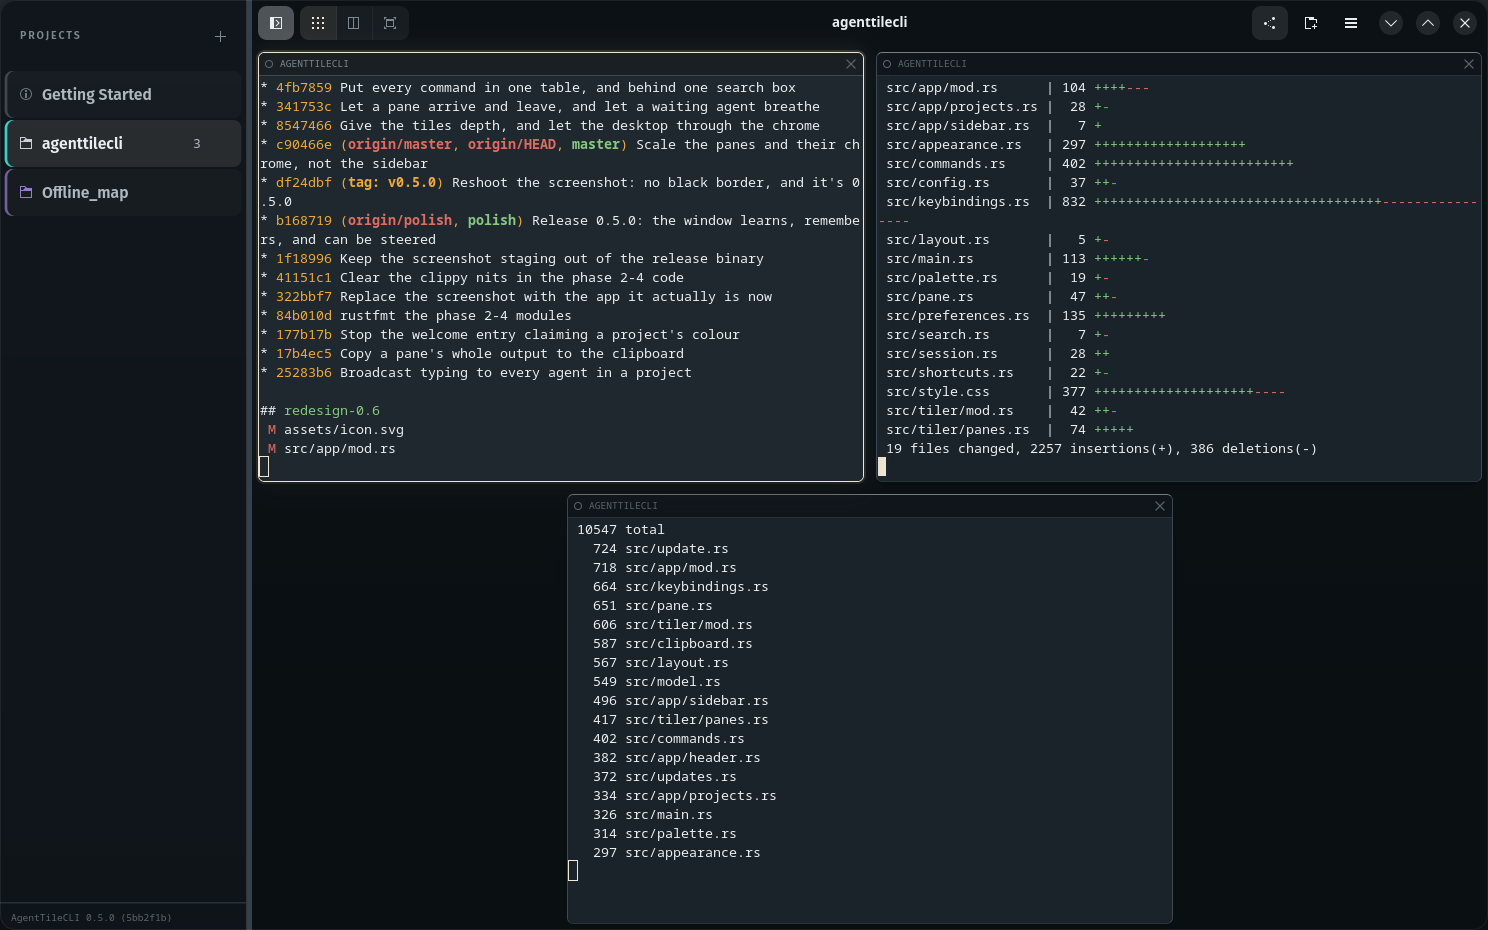
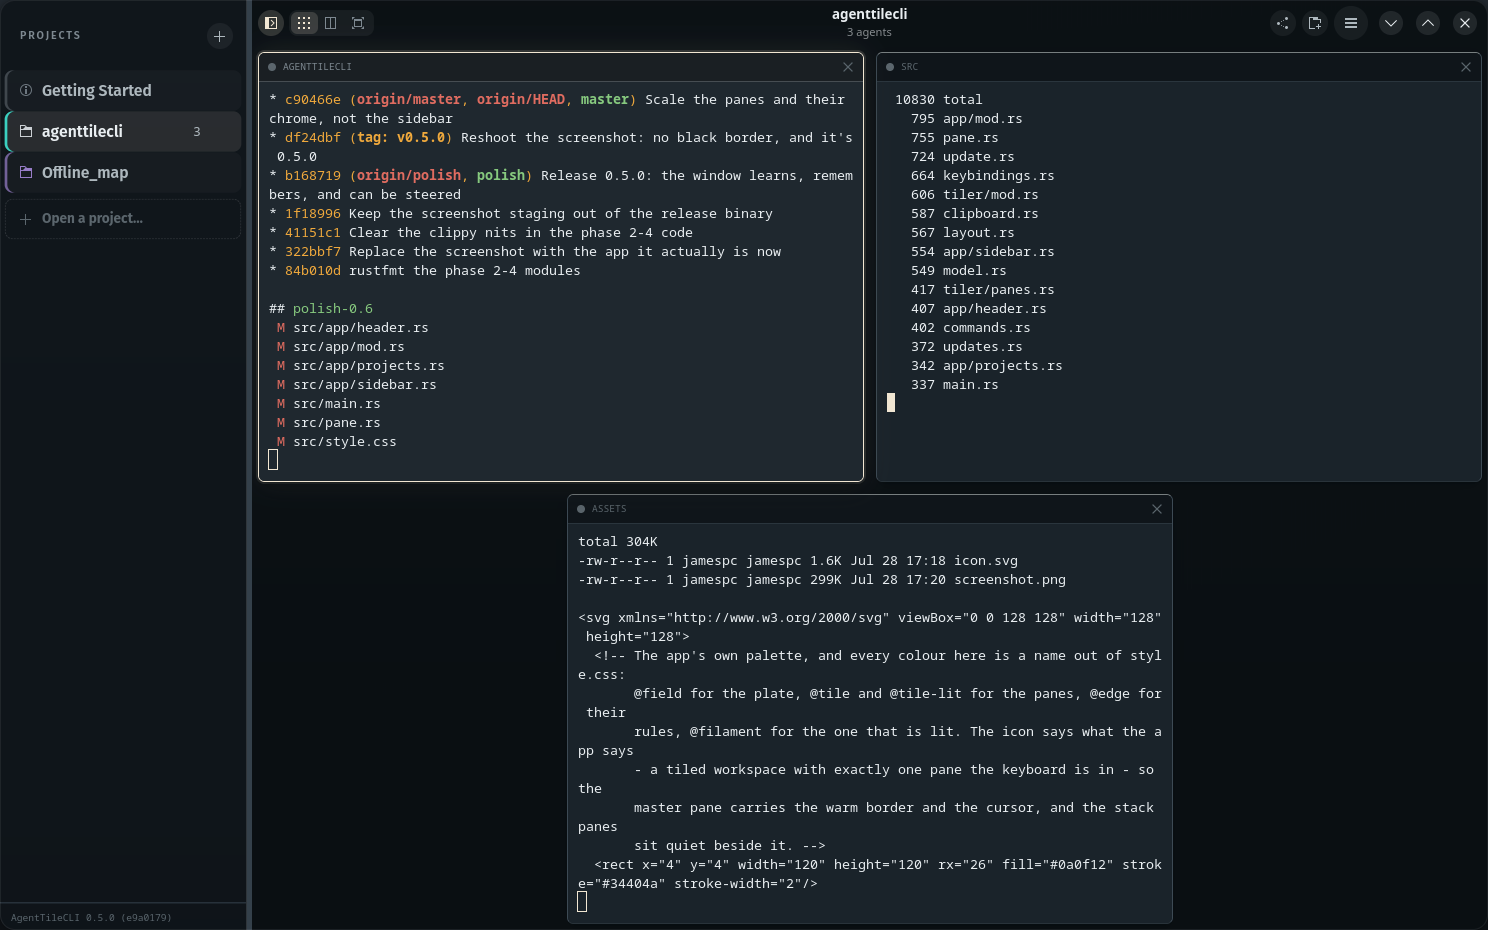
Finish the polish: the empty screen, the last button, the dot, the subtitle
Six things, three of which were unfinished rather than optional.

The empty state's primary button was `.suggested-action`, which paints from
`accent_bg_color` - aliased in this app to @filament. So the first screen
anyone sees led with a solid warm pill that was the brightest thing in the
window, wearing the one colour the stylesheet reserves for "the keyboard is
here". Two buttons alone on a blank page have no competition to win: the
primary now takes the same wash the lit sidebar strip and the checked
toggles use, and the secondary is an outline. It also gains the one line
worth adding to a page with nothing on it - where the command palette is.

The button unification only got half done. The content header's controls
were given one shape and the rack's "+" was left on `flat circular`, which
didn't remove the second button language, it moved the seam from inside one
header to between two. Its old rules go with it; they were dead for most of
their life anyway, since nothing wore `.sidebar-header` until recently.

The status dot had the bug that was just fixed for the label beside it.
`starting` means "not yet heard from" and is drawn hollow so that nothing-
known doesn't read as a state - right for an agent in the second before its
first hook, wrong forever for a pane with no hooks to arrive. Those now get
the plain dot that means "a thing that is simply there".

The header's subtitle was empty whenever no agent had a title to show. It
[…]

diff --git a/src/style.css b/src/style.css
@@ -534,6 +534,58 @@ window {
   color: @muted;
 }
 
+/* ── The empty state ───────────────────────────────────────────────────────
+   The first screen of the app, and the only one with nothing on it to read.
+
+   Its primary button used to be `.suggested-action`, which paints from
+   `accent_bg_color` - aliased here to @filament - so it arrived as a solid warm
+   pill and became the brightest thing in the window, wearing the one colour
+   this palette reserves for "the keyboard is here". Two buttons alone on a
+   blank page have no competition to win, so the primary takes the same wash
+   the sidebar's lit strip and the checked toggles use, and the secondary is an
+   outline. The hierarchy is still obvious and neither of them is a lamp. */
+.empty-primary {
+  color: @filament;
+  background-color: alpha(@filament, 0.16);
+  background-image: none;
+  border: 1px solid alpha(@filament, 0.22);
+  box-shadow: none;
+  transition: background-color 140ms cubic-bezier(0.2, 0, 0, 1),
+    border-color 140ms cubic-bezier(0.2, 0, 0, 1);
+}
+
+.empty-primary:hover {
+  background-color: alpha(@filament, 0.24);
+  border-color: alpha(@filament, 0.34);
+}
+
+.empty-secondary {
+  color: @dim;
+  background-color: transparent;
+  background-image: none;
+  border: 1px solid alpha(@text, 0.14);
+  box-shadow: none;
+  transition: color 140ms cubic-bezier(0.2, 0, 0, 1),
+    background-color 140ms cubic-bezier(0.2, 0, 0, 1),
+    border-color 140ms cubic-bezier(0.2, 0, 0, 1);
+}
+
+.empty-secondary:hover {
+  color: @text;
+  background-color: alpha(@text, 0.06);
+  border-color: alpha(@text, 0.22);
+}
+
+/* Quieter than the description above it and set in the engraved monospace the
+   rest of the app's footnotes use, so it reads as a note rather than a third
+   button. */
+.empty-hint {
+  margin-top: 0.6em;
+  font-family: monospace;
+  font-size: 0.8em;
+  color: @faint;
+}
+
 /* ── The find bar ──────────────────────────────────────────────────────────
    Level 4, and until now level nothing: `.search-row` has been applied to the
    box since the day the find bar landed and has never had a single rule to its
@@ -701,22 +753,10 @@ searchbar > revealer > box {
   text-transform: uppercase;
 }
 
-.sidebar-header button {
-  min-width: 1.8em;
-  min-height: 1.8em;
-  border-radius: 0.3em;
-  color: @muted;
-  transition: color 140ms cubic-bezier(0.2, 0, 0, 1),
-    background-color 140ms cubic-bezier(0.2, 0, 0, 1);
-}
-
-/* A wash rather than a solid fill. At this size a filled square is the
-   brightest thing in the rack, which is a strange amount of noise for "add a
-   project" to make while the pointer merely passes over it. */
-.sidebar-header button:hover {
-  color: @filament;
-  background-color: alpha(@filament, 0.12);
-}
+/* The "+" here wears `.header-action`, like every other button in either
+   header bar - so it has no rules of its own any more. It used to have a pair,
+   which had never applied to anything: nothing wore `.sidebar-header` until
+   that was fixed, and by then the button had been unified. */
 
 .sidebar-list {
   background-color: transparent;
@@ -736,8 +776,13 @@ searchbar > revealer > box {
    generously rounded, and nothing else drawn at all. That is also the honest
    hierarchy - a rack is a list of places you might go, and the only fact worth
    drawing is which one you're in. */
+/* Down from 1.05em of vertical padding, which made three projects fill a third
+   of a column with room for fifteen. A rack is an index, and an index wants to
+   be scanned - rows tall enough to be buttons put fewer of them on screen and
+   made the empty space below them the loudest thing in the panel. Still roomy
+   enough to carry a rail and a tally without crowding either. */
 row.sidebar-row {
-  padding: 1.05em 0.7em 1.05em 1em;
+  padding: 0.8em 0.7em 0.8em 1em;
   margin: 0.13em 0;
   border-radius: 0.6em;
   /* A whisper of surface, and it is the rail that needs it. The rail is an
@@ -827,7 +872,7 @@ row.sidebar-row:selected:hover {
    lit strip do the talking. */
 .sidebar-add {
   margin: 0.3em 0.4em 0.15em;
-  padding: 0.72em 0.7em 0.72em 0.92em;
+  padding: 0.55em 0.7em 0.55em 0.92em;
   border: 1px dashed alpha(@text, 0.13);
   border-radius: 0.6em;
   background-color: transparent;

diff --git a/src/app/mod.rs b/src/app/mod.rs
@@ -161,6 +161,11 @@ struct Inner {
     toasts: adw::ToastOverlay,
     updates: Updates,
     title: adw::WindowTitle,
+    /// The focused agent's own terminal title, kept because the subtitle it
+    /// competes for is rewritten by two different events - a title change and
+    /// a change in how many agents are running - and whichever fires second
+    /// has to know what the other one had to say.
+    pane_title: RefCell<String>,
     /// The three layout-mode toggles, in `MODE_BUTTONS` order.
     mode_buttons: RefCell<Vec<gtk4::ToggleButton>>,
     /// True while the mode toggles are being repainted *from* the tiler, so the
@@ -293,6 +298,7 @@ impl App {
             toasts,
             updates: updates.clone(),
             title: title_widget.clone(),
+            pane_title: RefCell::new(String::new()),
             mode_buttons: RefCell::new(Vec::new()),
             syncing_mode: Cell::new(false),
             broadcast_button: RefCell::new(None),
@@ -610,6 +616,55 @@ impl App {
     /// Opens the command palette.
     pub fn show_command_palette(&self) {
         crate::commands::present(self);
+    }
+
+    /// Rewrites the header's subtitle.
+    ///
+    /// Two things want that line and only one can have it, so they take turns
+    /// by usefulness. The focused agent's own terminal title is the better
+    /// answer whenever there is one - it is live, it is specific, and it says
+    /// what that agent is doing right now. When there isn't one (no panes, or a
+    /// pane running something that never sets a title) the line would otherwise
+    /// be blank, and a blank line under a project name is a header bar with
+    /// nothing to say in the one place positioned to say it.
+    ///
+    /// So the fallback is the tally: how many agents this project is running
+    /// and whether any of them is waiting on you. That fact is otherwise only
+    /// in the sidebar, which is shut most of the time - which is exactly when
+    /// you would want to know it.
+    pub(super) fn refresh_subtitle(&self) {
+        let pane_title = self.0.pane_title.borrow().clone();
+        if !pane_title.is_empty() {
+            self.0.title.set_subtitle(&pane_title);
+            return;
+        }
+        self.0.title.set_subtitle(&self.agent_summary());
+    }
+
+    /// "3 agents \u{b7} 1 waiting for you", or as much of it as is true.
+    fn agent_summary(&self) -> String {
+        let Some(tiler) = self.active_tiler() else {
+            return String::new();
+        };
+        let tally = tiler.agent_tally();
+        let total = tally.total();
+        if total == 0 {
+            return "no agents running".to_string();
+        }
+        let agents = if total == 1 {
+            "1 agent".to_string()
+        } else {
+            format!("{total} agents")
+        };
+        // Only the claim on your attention is worth the second clause. "2
+        // working" is a thing you can see by looking at the panes; "1 waiting
+        // for you" is the thing you cannot, because a stopped agent looks
+        // exactly like a finished one.
+        if tally.waiting > 0 {
+            format!("{agents} \u{b7} {} waiting for you", tally.waiting)
+        } else {
+            agents
+        }
     }
 
     /// Opens the preferences dialog.

diff --git a/src/app/header.rs b/src/app/header.rs
@@ -294,10 +294,16 @@ impl App {
     /// yet done the one thing that makes any of them matter. The full list is
     /// still a keystroke away, in the menu and on `Super+Alt+/`.
     pub(super) fn build_empty_state(&self) -> adw::StatusPage {
+        // Not `suggested-action`. That class paints from `accent_bg_color`,
+        // which this app aliases to @filament - so the stock treatment made
+        // this button a solid warm pill and the brightest thing in the window,
+        // in the one colour the stylesheet reserves for "the keyboard is here".
+        // A primary action on an empty screen has no competition and needs
+        // none: it is one of two things on an otherwise blank page.
         let start = gtk4::Button::builder()
             .label("Open a project\u{2026}")
             .halign(gtk4::Align::Center)
-            .css_classes(["pill", "suggested-action"])
+            .css_classes(["pill", "empty-primary"])
             .build();
         let this = self.clone();
         start.connect_clicked(move |_| this.new_project());
@@ -305,7 +311,7 @@ impl App {
         let agent = gtk4::Button::builder()
             .label("Start an agent here")
             .halign(gtk4::Align::Center)
-            .css_classes(["pill"])
+            .css_classes(["pill", "empty-secondary"])
             .tooltip_text("Run claude in this project's own folder")
             .build();
         let this = self.clone();
@@ -315,6 +321,16 @@ impl App {
             }
         });
 
+        // The one line worth adding to an empty screen: where everything else
+        // is. This is the only page in the app with nothing on it to read, so
+        // it is the only place a pointer to the command palette costs nothing
+        // and is certain to be seen.
+        let hint = gtk4::Label::builder()
+            .label("Press Super+Alt+P for everything else")
+            .halign(gtk4::Align::Center)
+            .css_classes(["empty-hint"])
+            .build();
+
         let buttons = gtk4::Box::builder()
             .orientation(gtk4::Orientation::Vertical)
             .spacing(10)
@@ -322,6 +338,7 @@ impl App {
             .build();
         buttons.append(&start);
         buttons.append(&agent);
+        buttons.append(&hint);
 
         adw::StatusPage::builder()
             .icon_name("tab-new-symbolic")

diff --git a/src/app/sidebar.rs b/src/app/sidebar.rs
@@ -78,7 +78,12 @@ impl App {
             .build();
         let new_project = gtk4::Button::builder()
             .icon_name("list-add-symbolic")
-            .css_classes(["flat", "circular"])
+            // The same shape the content header's buttons take. Unifying that
+            // bar and leaving this one on `flat circular` didn't remove the
+            // second button language, it just moved the seam from inside one
+            // header to between two.
+            .css_classes(["header-action"])
+            .valign(gtk4::Align::Center)
             .can_focus(false)
             .tooltip_text("Open a new project as a new group (Super+Alt+Return)")
             .build();
@@ -499,6 +504,15 @@ impl App {
             "tally-working",
             tally.waiting == 0 && tally.working > 0,
         );
+
+        // The header's subtitle falls back to this same tally when no agent has
+        // a title to show, so a change here can be a change up there. Only for
+        // the project on screen - the header only ever speaks for that one.
+        let is_active = self.0.store.borrow().active() == Some(id);
+        drop(views);
+        if is_active {
+            self.refresh_subtitle();
+        }
     }
 }
 

diff --git a/src/app/projects.rs b/src/app/projects.rs
@@ -73,7 +73,8 @@ impl App {
                 return;
             }
             inner.title.set_title(&name_for_title);
-            inner.title.set_subtitle(pane_title);
+            *inner.pane_title.borrow_mut() = pane_title.to_string();
+            App(inner.clone()).refresh_subtitle();
             // The header bar shows the project, because that's what you need
             // while working. The *window* title still leads with the app - it's
             // what the taskbar and the alt-tab switcher show, where "Getting
@@ -251,6 +252,13 @@ impl App {
             row.remove_css_class(ATTENTION_CLASS);
         }
         self.refresh_attention();
+
+        // The title belonged to the project we just left. Clearing it before
+        // refreshing means the header falls back to the new project's tally
+        // rather than showing what the *previous* project's focused agent was
+        // doing until that project happens to retitle itself.
+        self.0.pane_title.borrow_mut().clear();
+        self.refresh_subtitle();
 
         // On a narrow window the sidebar is covering the panes, so having picked
         // a project, get out of the way of it.

diff --git a/src/main.rs b/src/main.rs
@@ -70,7 +70,17 @@ fn main() -> glib::ExitCode {
     // from the config file, and the window is painted from the appearance.
     appearance::install();
 
-    let application = adw::Application::builder().application_id(app_id()).build();
+    let mut application = adw::Application::builder().application_id(app_id());
+    // A capture run must never be handed off to a window that is already open.
+    // GApplication is single-instance per id, so `ATC_SHOT=... cargo run` beside
+    // a running build of the same branch would send an activate to *that*
+    // process - which has no ATC_SHOT in its environment - and exit having
+    // photographed nothing, silently.
+    #[cfg(debug_assertions)]
+    if std::env::var_os("ATC_SHOT").is_some() {
+        application = application.flags(gtk4::gio::ApplicationFlags::NON_UNIQUE);
+    }
+    let application = application.build();
     application.connect_startup(|_| {
         load_css();
         // This app has exactly one palette, and it is a dark one - the graphite

diff --git a/src/pane.rs b/src/pane.rs
@@ -583,6 +583,19 @@ impl Pane {
         });
         head_state.refresh();
 
+        // The dot has the same problem the label had, and needs the same
+        // answer. `starting` means "not yet heard from", drawn hollow so that
+        // "nothing known" doesn't read as a state of its own - which is right
+        // for an agent in the second before its first hook arrives, and wrong
+        // forever for a pane that has no hooks to arrive. Those get the plain
+        // grey dot that means "a thing that is simply there", which is exactly
+        // what a command running in a terminal is.
+        if !reports {
+            status.remove_css_class("starting");
+            status.add_css_class("idle");
+            status.set_tooltip_text(Some("Running"));
+        }
+
         let shell = std::env::var("SHELL").unwrap_or_else(|_| "/bin/sh".to_string());
         let argv = [shell.as_str(), "-lc", command];
 
